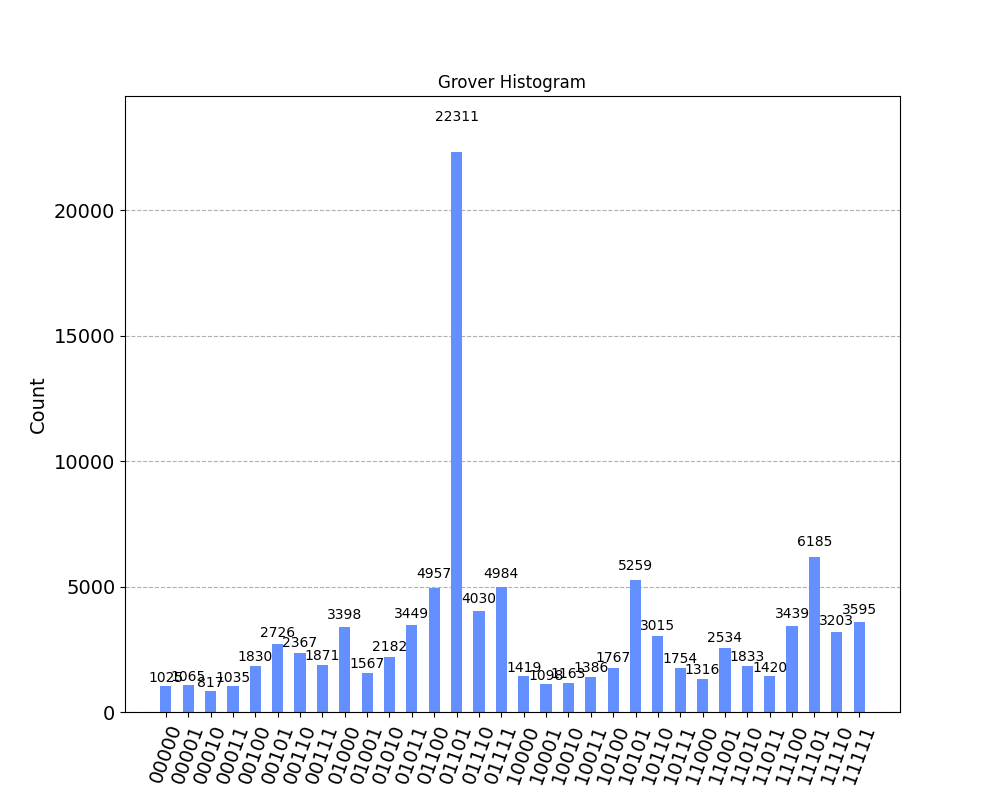
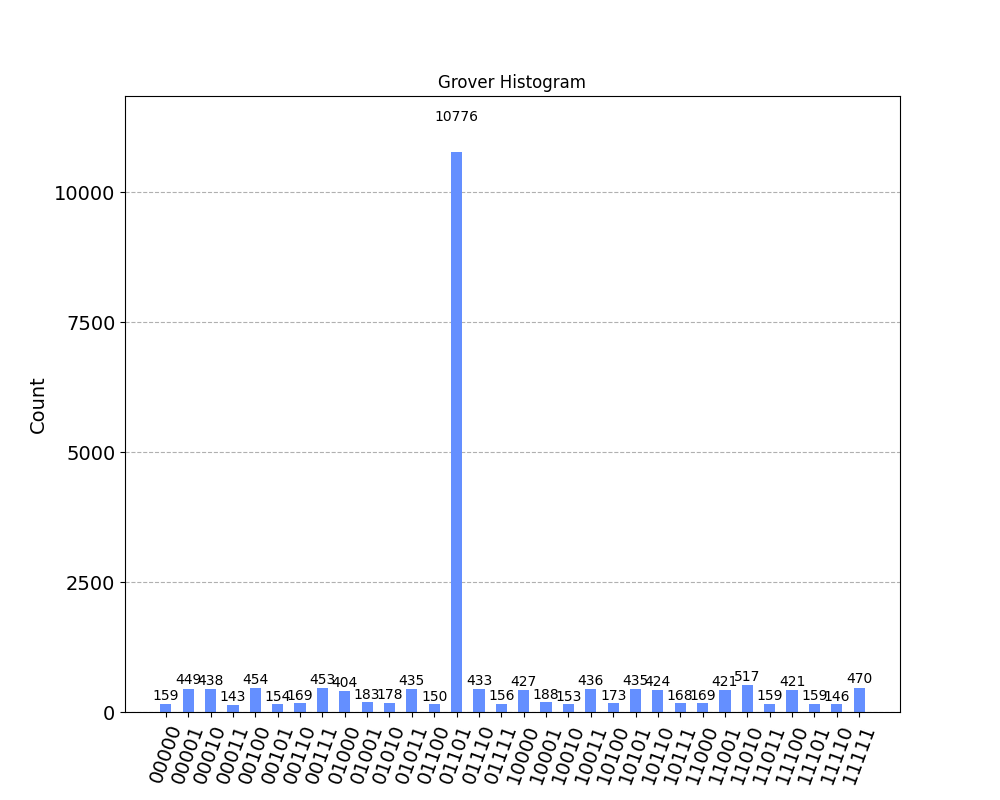
Q2: Reduce Qubits and Gates used which gives far better results

diff --git a/TP2/grover_ibmq.py b/TP2/grover_ibmq.py
@@ -4,11 +4,17 @@ from qiskit import QuantumCircuit, transpile, QuantumRegister, ClassicalRegister
 from qiskit_aer import QasmSimulator
 from qiskit.visualization import plot_histogram
 import qiskit.quantum_info as qi
[1 lines of base64/hex data omitted]
+
+from oracle import oracle
+
+IBMQ.save_account(
[1 lines of base64/hex data omitted]
+    overwrite=True)
 provider = IBMQ.load_account()
-backend = provider.backends.simulator_statevector
+backend = provider.backends.simulator_extended_stabilizer
 
 target = '01101'
+curr_oracle = oracle(target)
 
 # creating inversion about mean operator
 A = [[1 / (2 ** len(target)) for i in range(2 ** len(target))] for j in range(2 ** len(target))]
@@ -18,52 +24,20 @@ I = np.identity(2 ** len(target))
 matrix = -I + 2 * np_a
 
 # Use Aer's qasm_simulator
-# simulator = QasmSimulator()
+simulator = QasmSimulator()
 # Create quantum program that find 01101 by reversing its phase
-x = QuantumRegister(len(target), name='X')  # 5 qubits index 0 is the right most qubit
-y = QuantumRegister(1, name='Y')
-ands_results = QuantumRegister(len(target) - 1, name='ands_results')
+x = QuantumRegister(len(target), name='x')  # 5 qubits index 0 is the right most qubit
+fx = QuantumRegister(1, name='ands_results')
 res = ClassicalRegister(len(target), name='Target')
 
-grover = QuantumCircuit(x, y, ands_results, res, name='grover')
+grover = QuantumCircuit(x, res, fx, name='grover')
 grover.h(x)
 
 for j in range(int((2 ** len(target)) ** (1 / 2))):
-    grover.reset(y)
-    grover.x(y, 'init y with |1>')
-    grover.h(y)
-    for i in range(len(target) - 1):
-        correct_index = len(target) - i - 1
-        if i == 0:
-            if target[correct_index] == '0':
-                grover.x(x[i], 'correct bit is 0, set to |1> for future CCX gate')
-            if target[correct_index - 1] == '0':
-                grover.x(x[i + 1], 'correct bit is 0, set to |1> for future CCX gate')
-
-            grover.ccx(x[i], x[i + 1], ands_results[i])
-
-            if target[correct_index] == '0':
-                grover.x(x[i], 'undo setter')
-            if target[correct_index - 1] == '0':
-                grover.x(x[i + 1], 'undo setter')
-
-            continue
-
-        if target[correct_index - 1] == '0':
-            grover.x(x[i + 1], 'correct bit is 0, set to |1> for future CCX gate')
-
-        grover.ccx(ands_results[i - 1], x[i + 1], ands_results[i])
-
-        if target[correct_index - 1] == '0':
-            grover.x(x[i + 1], 'undo setter')
-
-    # ands_results[len(target) - 2] contains f(x) value
-    # Apply CX gate to qubit ands_results[8], y in order to get f(x) output (classical XOR)
-    grover.cx(ands_results[len(target) - 2], y)
-
+    grover.append(curr_oracle, x[:] + fx[:])
+    grover.x(fx)
     inversion_about_mean = qi.Operator(matrix.tolist())
     grover.unitary(inversion_about_mean, x, label='Inversion about mean')
-    grover.x(ands_results)
 
 # Map the quantum measurement to the classical bits
 grover.measure(x, res)

diff --git a/TP2/oracle.py b/TP2/oracle.py
@@ -5,36 +5,23 @@ from qiskit_aer import QasmSimulator
 def oracle(target):
     # Create quantum program that find 01101 by reversing its phase
     x = QuantumRegister(len(target), name='X')  # 5 qubits index 0 is the right most qubit
-    ands_results = QuantumRegister(len(target) - 1, name='Ands_results')
-    oracle_circuit = QuantumCircuit(x, ands_results, name='oracle')
+    fx = QuantumRegister(1, name='fx')
+    oracle_circuit = QuantumCircuit(x, fx, name='oracle')
 
-    for i in range(len(target) - 1):
+    for i in range(len(target)):
         correct_index = len(target) - i - 1
-        if i == 0:
-            if target[correct_index] == '0':
-                oracle_circuit.x(x[i])
-            if target[correct_index - 1] == '0':
-                oracle_circuit.x(x[i + 1])
+        if target[correct_index] == '0':
+            oracle_circuit.x(x[i])
 
-            oracle_circuit.ccx(x[i], x[i + 1], ands_results[i])
+    oracle_circuit.mct(x[:], fx[0])
 
-            if target[correct_index] == '0':
-                oracle_circuit.x(x[i])
-            if target[correct_index - 1] == '0':
-                oracle_circuit.x(x[i + 1])
+    for i in range(len(target)):
+        correct_index = len(target) - i - 1
+        if target[correct_index] == '0':
+            oracle_circuit.x(x[i])
 
-            continue
+    oracle_circuit.cz(fx, x)
 
-        if target[correct_index - 1] == '0':
-            oracle_circuit.x(x[i + 1])
-
-        oracle_circuit.ccx(ands_results[i - 1], x[i + 1], ands_results[i])
-
-        if target[correct_index - 1] == '0':
-            oracle_circuit.x(x[i + 1])
-
-    oracle_circuit.cz(ands_results[len(target) - 2], x)
-    # oracle_circuit.x(ands_results)
     oracle_circuit.to_gate()
 
     return oracle_circuit

diff --git a/TP2/grover.py b/TP2/grover.py
@@ -19,15 +19,15 @@ matrix = -I + 2 * np_a
 simulator = QasmSimulator()
 # Create quantum program that find 01101 by reversing its phase
 x = QuantumRegister(len(target), name='x')  # 5 qubits index 0 is the right most qubit
-ands_results = QuantumRegister(len(target) - 1, name='ands_results')
+fx = QuantumRegister(1, name='ands_results')
 res = ClassicalRegister(len(target), name='Target')
 
-grover = QuantumCircuit(x, res,ands_results, name='grover')
+grover = QuantumCircuit(x, res, fx, name='grover')
 grover.h(x)
 
 for j in range(int((2 ** len(target)) ** (1 / 2))):
-    grover.append(curr_oracle,  x[:] + ands_results[:])
-    grover.x(ands_results)
+    grover.append(curr_oracle, x[:] + fx[:])
+    grover.x(fx)
     inversion_about_mean = qi.Operator(matrix.tolist())
     grover.unitary(inversion_about_mean, x, label='Inversion about mean')
 
@@ -37,7 +37,7 @@ grover.measure(x, res)
 compiled_circuit = transpile(grover, simulator)
 
 # Execute the circuit on the qasm simulator
-job = simulator.run(compiled_circuit, shots=100000)
+job = simulator.run(compiled_circuit, shots=20000)
 
 # Grab results from the job
 result = job.result()
